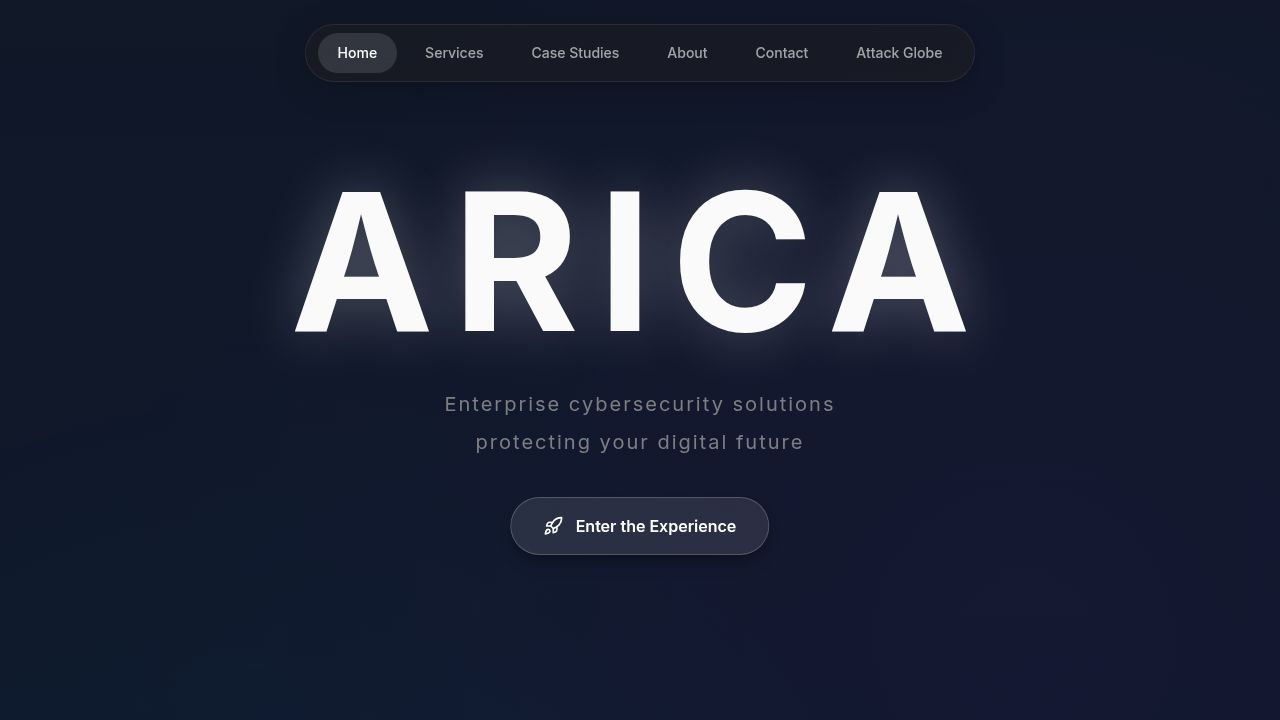
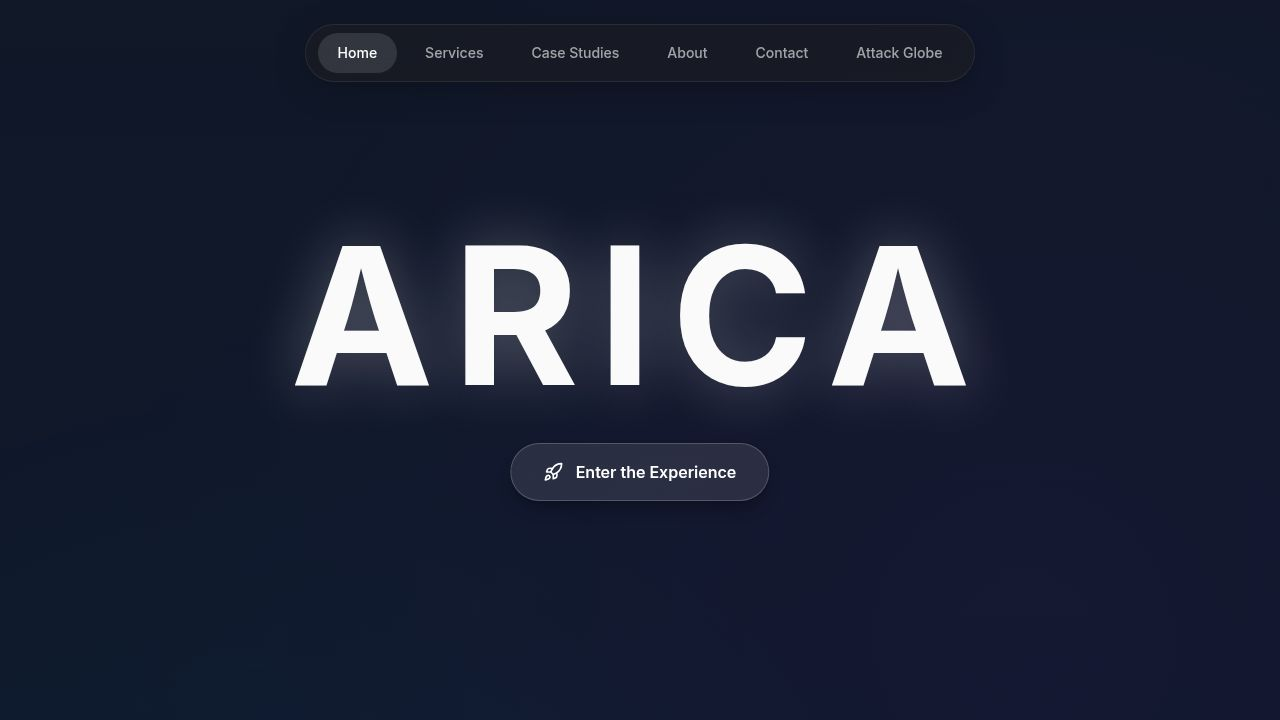
Remove descriptive text below company name on experience page
Remove subtitle text and scrolling instructions from the RealisticSolarSystem component in client/src/components/ui/realistic-solar-system.tsx.

Replit-Commit-Author: Agent
Replit-Commit-Session-Id: 654b0269-cbaa-4868-8b3d-fea5253349f6
Replit-Commit-Checkpoint-Type: full_checkpoint
Replit-Commit-Event-Id: a797b4be-086b-4170-9830-e798679e5bf6
Replit-Commit-Screenshot-Url: https://storage.googleapis.com/screenshot-production-us-central1/3ed77ba6-63ae-46bb-941d-3d955f81cf5f/654b0269-cbaa-4868-8b3d-fea5253349f6/qOMvPR8
Replit-Helium-Checkpoint-Created: true

Changed region(s): [[0.2188, 0.2444, 0.75, 0.5806], [0.375, 0.6111, 0.625, 0.7944]]

diff --git a/client/src/components/ui/realistic-solar-system.tsx b/client/src/components/ui/realistic-solar-system.tsx
@@ -2371,22 +2371,6 @@ export function RealisticSolarSystem() {
                 >
                   ARICA TECH
                 </motion.h1>
-                <motion.p 
-                  className="text-lg md:text-2xl text-muted-foreground max-w-lg mx-auto mb-4"
-                  initial={{ opacity: 0 }}
-                  animate={{ opacity: 1 }}
-                  transition={{ delay: 0.3 }}
-                >
-                  Explore our security universe
-                </motion.p>
-                <motion.p 
-                  className="text-sm text-muted-foreground/60"
-                  initial={{ opacity: 0 }}
-                  animate={{ opacity: 1 }}
-                  transition={{ delay: 0.5 }}
-                >
-                  Scroll to navigate through three galaxies of services
-                </motion.p>
                 <motion.div
                   animate={{ y: [0, 10, 0] }}
                   transition={{ duration: 2, repeat: Infinity }}
